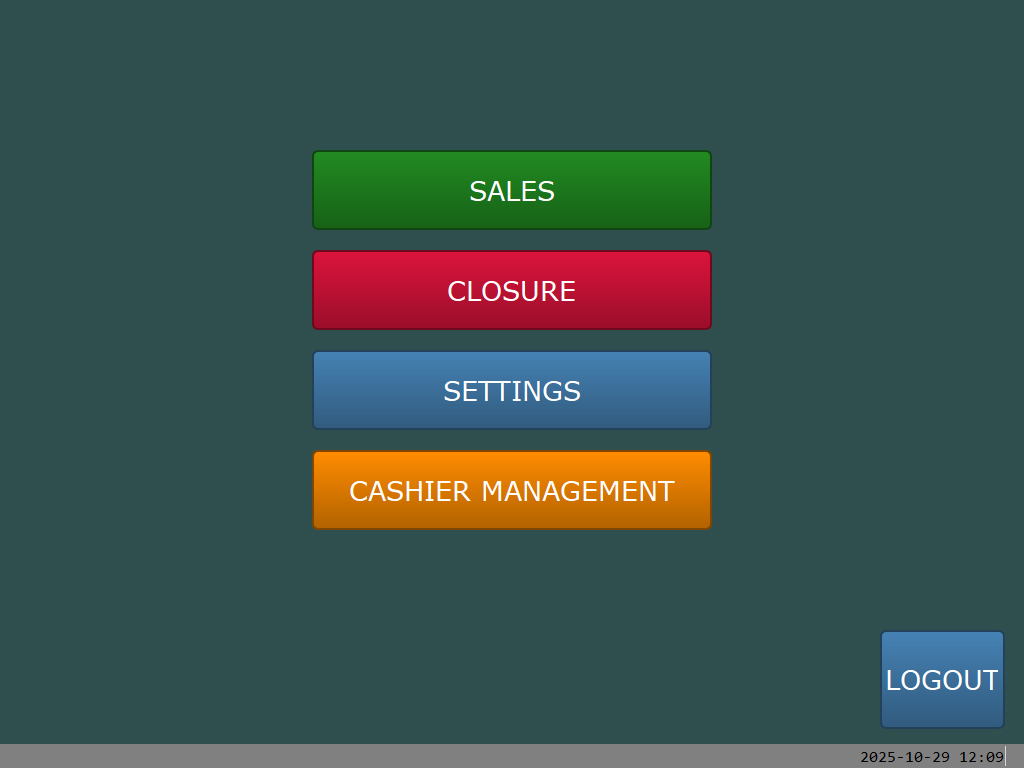
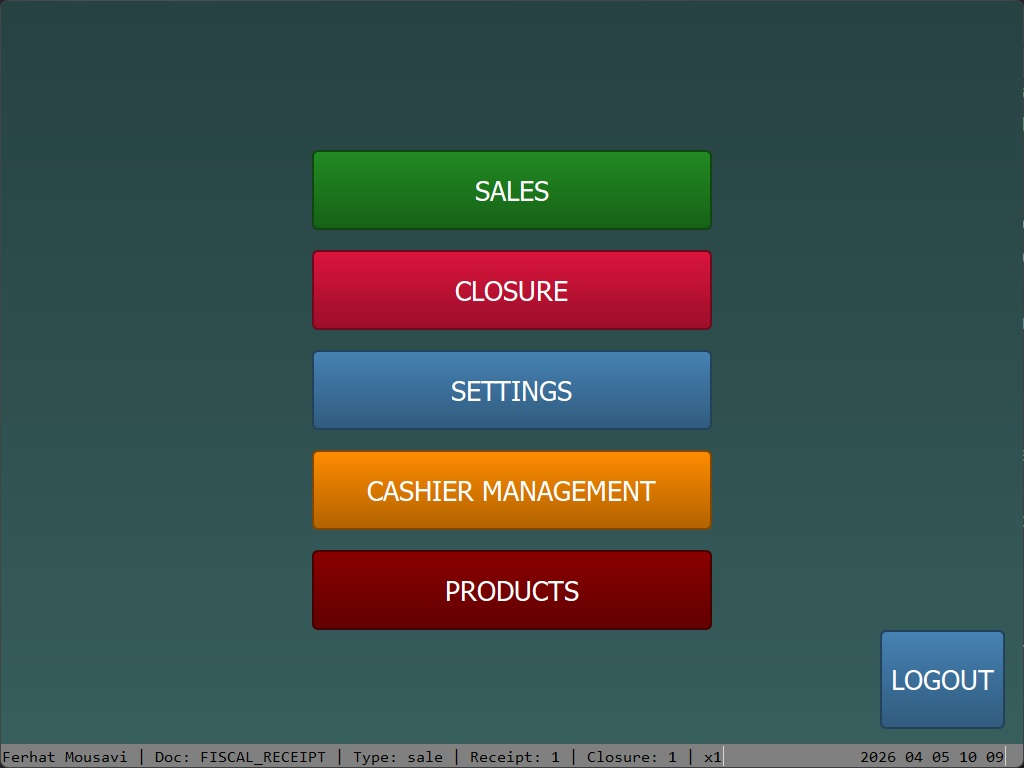
Add product list/detail screenshots and update README.

diff --git a/README.md b/README.md
@@ -329,6 +329,8 @@ After running the application, you will see the login screen:
 
 ![Login Screen](static_files/images/sample_login.jpg)
 
+> Touch-optimised login screen with cashier selection combobox, password field, and on-screen virtual keyboard.
+
 **Default Login Credentials:**
 
 | Username | Password | Role |
@@ -340,9 +342,43 @@ After successful login, you will be redirected to the main menu:
 
 ![Main Menu](static_files/images/sample_main_menu.jpg)
 
+> Main Menu listing all major modules: Sales, Closure, Settings, Cashier Management, and Products.
+
 If you select "SALES", you will see a form as shown below:
 
 ![Sale Form](static_files/images/sample_sale_form.jpg)
+
+> SALE form with PLU product buttons, department buttons, sale list, payment methods (Cash/Credit Card), NumPad, and real-time transaction totals.
+
+Selecting "CLOSURE" opens the end-of-day closure screen:
+
+![Closure Form](static_files/images/sample_closure_form.jpg)
+
+> Closure form listing all completed closures with gross sales, opening cash, and closing cash totals. Administrators can perform end-of-day closure from this screen.
+
+Selecting "SETTINGS" opens the POS settings panel:
+
+![Settings Form](static_files/images/sample_settings_form.jpg)
+
+> Settings panel showing POS hardware configuration (receipt printer, customer display, MAC address, etc.) with scroll support for long field lists.
+
+Selecting "CASHIER MANAGEMENT" allows managing cashier accounts:
+
+![Cashier Management Form](static_files/images/sample_cashier_form.jpg)
+
+> Cashier Management form with cashier selection combobox, editable profile fields, and administrator-only **ADD NEW CASHIER** button. Field-level read-only protection enforced based on the `is_administrator` flag.
+
+Selecting "PRODUCTS" opens the product search and listing screen:
+
+![Product List Form](static_files/images/sample_product_form.jpg)
+
+> Product List form with real-time search by name or short name, paginated DataGrid results, **DETAIL** button (bottom-left) to open the product detail view, and **BACK** button (bottom-right) to return to the Main Menu.
+
+Clicking "DETAIL" on a selected product opens the tabbed product detail dialog:
+
+![Product Detail Form](static_files/images/sample_product_detail_form.jpg)
+
+> Product Detail modal dialog (DB-driven, 1024×768) with four tabs: **Product Info** (code, name, price, stock, unit, manufacturer), **Barcodes**, **Attributes**, and **Variants**. Tabs are fully navigable via touch.
 
 ### Configuration
 - Edit `settings.toml` to configure database connections and basic application settings
